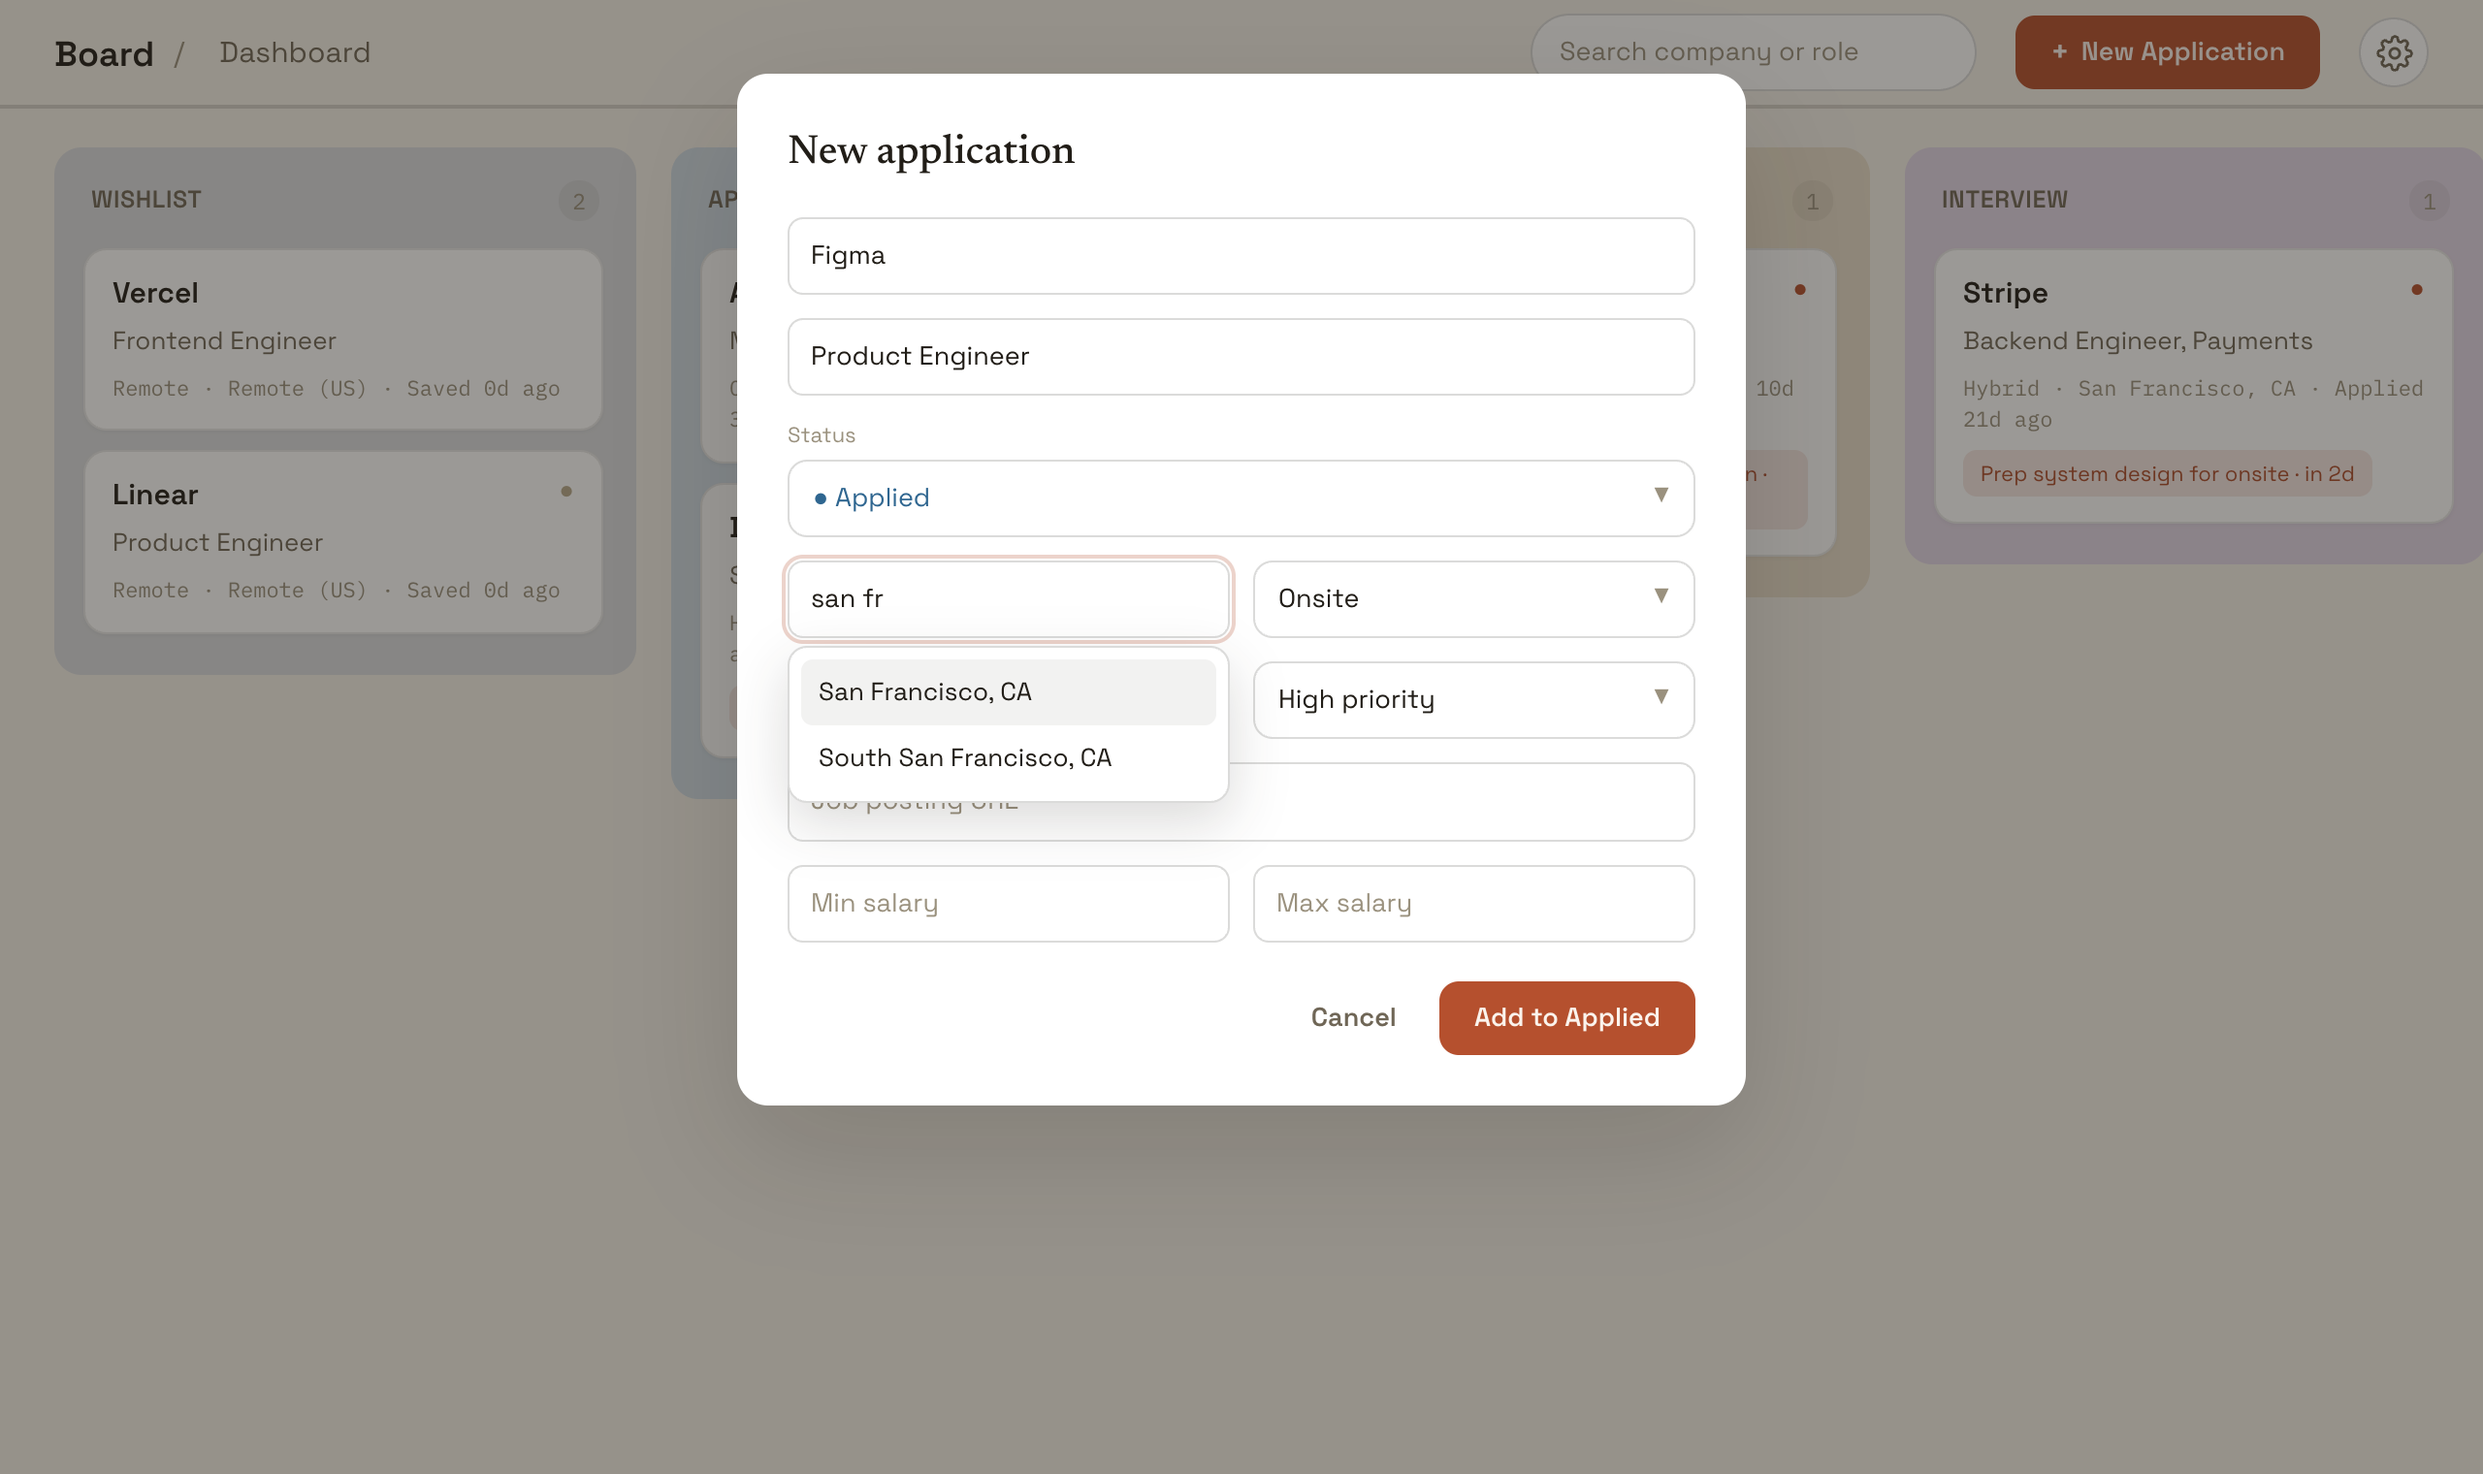
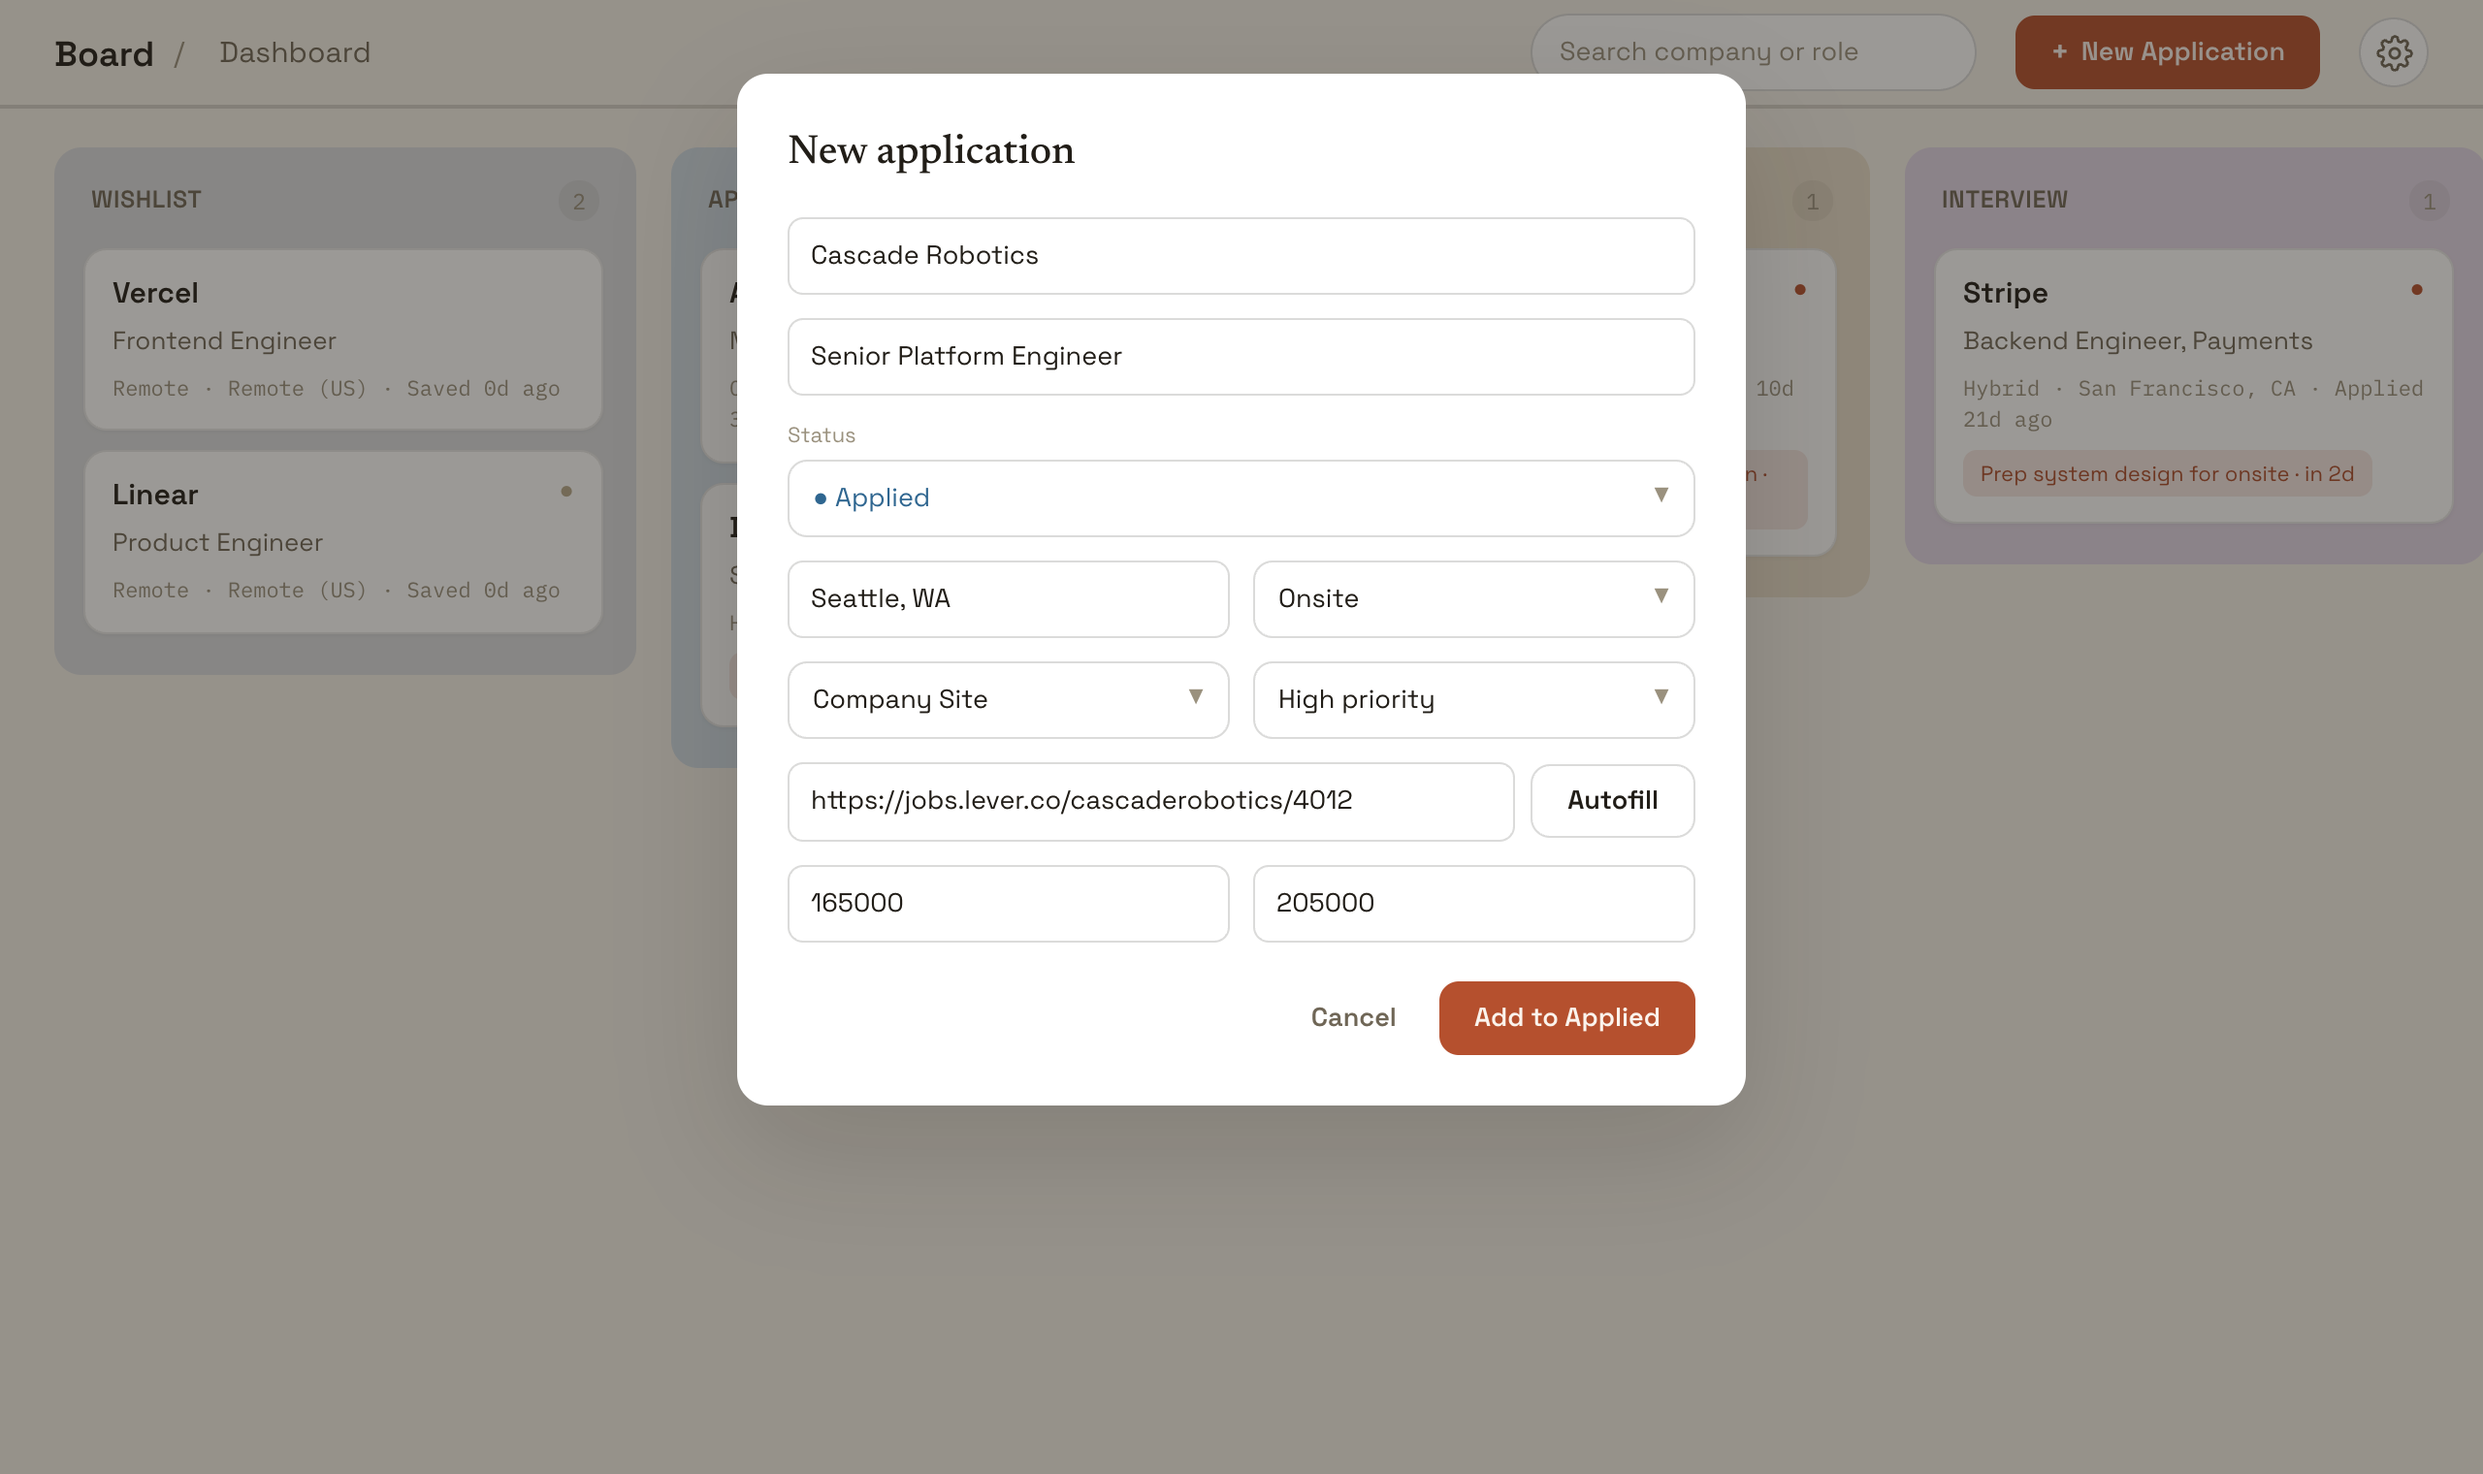
Document Autofill in the README and reshoot the quick-add modal
The "Adding an application" section now explains the Autofill button:
what it fills, that it reads the structured data pages embed for
Google Jobs (so ATS-hosted postings work best while LinkedIn and
Indeed mostly yield just the source), and that it never overwrites
typed values or complains about unreadable pages. Autofill also joins
the intro feature list, and the "everything works offline" development
note now carries its one honest exception.

new-application.png is re-shot in the same 1280x760@2x framing showing
the form just after an Autofill: fields filled from the posting,
location snapped to "Seattle, WA". The fill is the real pipeline run
against a local fixture posting; the URL and source shown are the
illustrative equivalents for that data, fictional like every company
in the sample data.

diff --git a/README.md b/README.md
@@ -6,9 +6,10 @@
 A single-user job application tracker that runs entirely on your machine.
 Kanban pipeline with drag-and-drop (five active columns plus a grouped
 Closed column), application details with contacts / interview rounds /
-notes / reminders / file attachments, a stats dashboard with a GitHub-style
-activity heatmap, light & dark themes, and CSV import/export via the API.
-No accounts, no cloud — one SQLite file.
+notes / reminders / file attachments, autofill from a pasted job-posting
+URL, a stats dashboard with a GitHub-style activity heatmap, light & dark
+themes, and CSV import/export via the API. No accounts, no cloud — one
+SQLite file.
 
 **Stack**
 
@@ -135,6 +136,17 @@ priority to **High**. The location field suggests every US city in
 still works for anything else. Creating drops you straight into the
 application modal — add contacts and interview rounds from there.
 
+Paste the posting's URL and hit **Autofill** to skip the typing: the
+app fetches the page and fills whatever it can read — company, role,
+location (snapped to the same `City, ST` form the suggestions use),
+salary range, remote work mode, and the source, inferred from the
+domain. It reads the structured data job pages embed for Google Jobs,
+so it works best on ATS-hosted postings (Lever, Ashby, many company
+career pages); sites that wall off automated traffic — LinkedIn,
+Indeed — usually give up nothing but the source. Autofill never
+overwrites something you already typed, and a page it can't read
+simply leaves the form alone.
+
 ### The launch check
 
 ![Stale applications prompt](docs/screenshots/stale-check.png)
@@ -186,6 +198,8 @@ by source.
 - Backend code is in `backend/app/` (routers → services → models); tests in
   `backend/tests/` run against an in-memory SQLite and a temp uploads dir.
 - Frontend code is in `frontend/src/`; component tests mock the API client.
-- Everything works offline. CORS is open only to the Vite dev origin.
+- Everything works offline except Autofill, which by nature fetches the
+  posting URL you pasted (and quietly does nothing without a network).
+  CORS is open only to the Vite dev origin.
 - Python deps are pinned in `backend/requirements.txt` and installed into
   `backend/.venv` — never globally.
